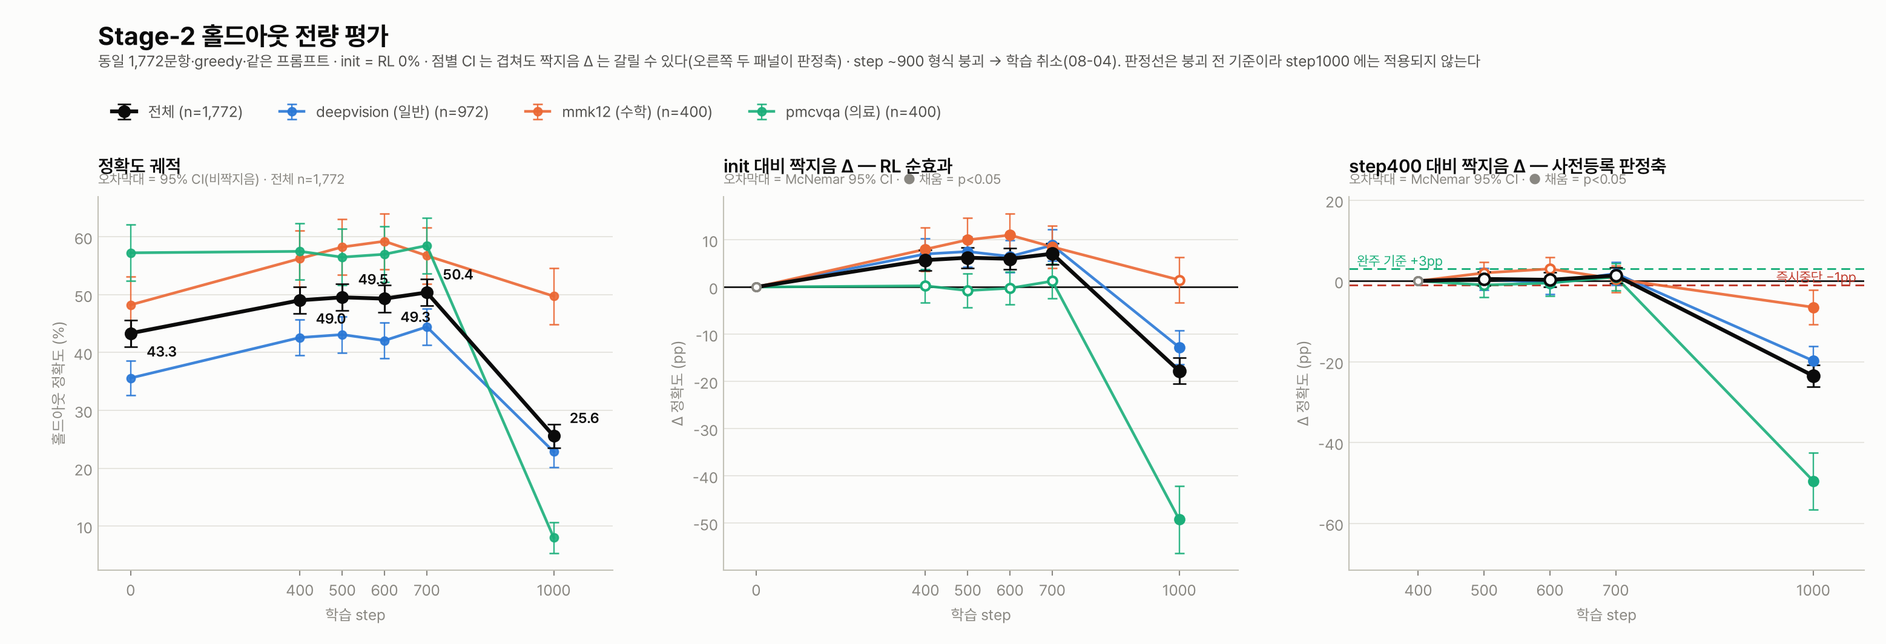
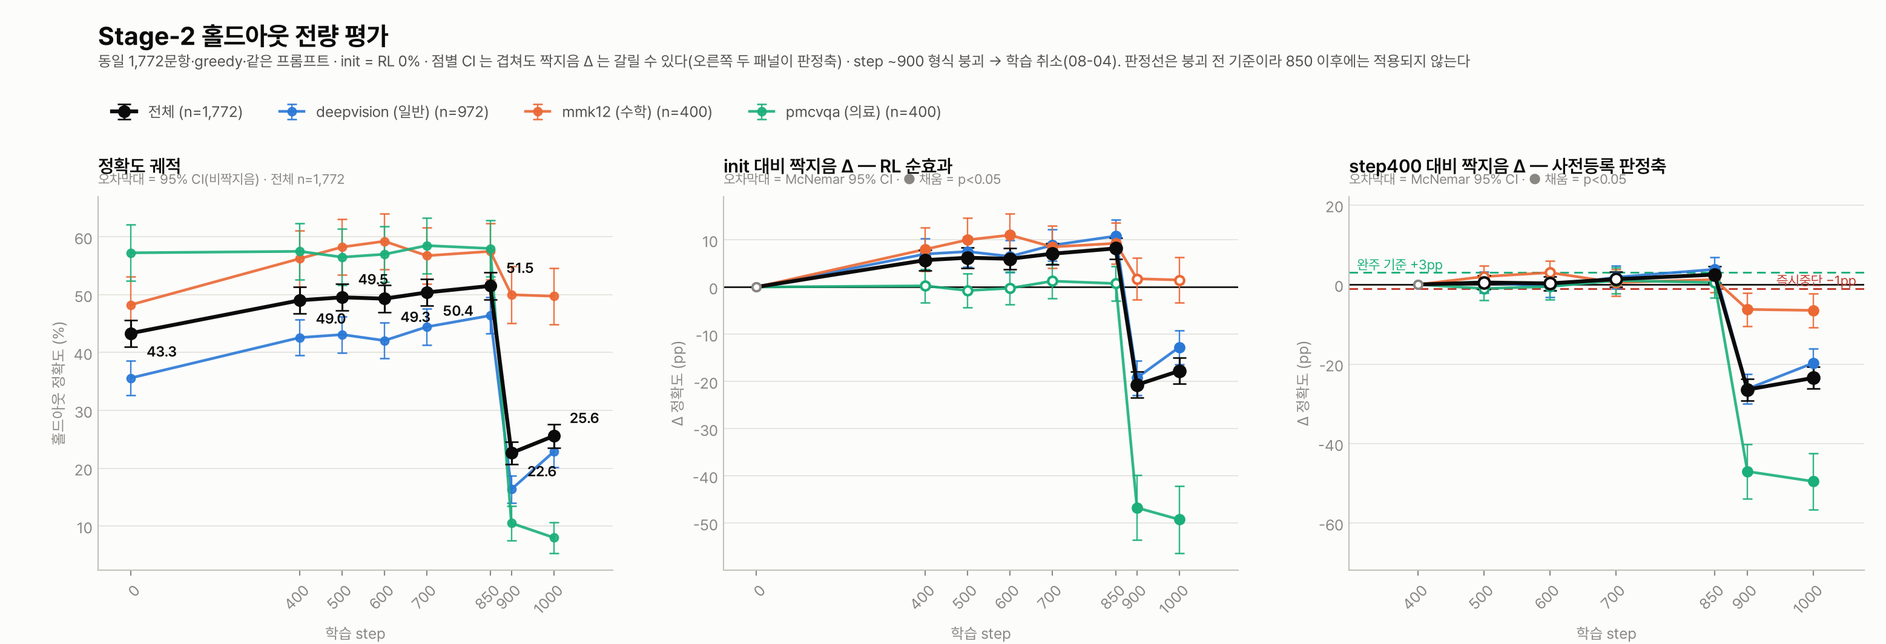
step 900 홀드아웃 추가 — 절벽은 850~900 사이 50 step (−28.89pp)
step900 = 22.63% 로 step1000(25.56%)보다도 낮다. 짝지음 850→900 −28.89pp
(정답→오답 581 / 반대 69, p<0.0001). 붕괴 지점이 홀드아웃 축에서도 특정됐다.

**학습 로그의 2단계 구조가 홀드아웃에서 독립 확인된다** — step 900 은
format 0.056 인데 mean_chars 는 2,264 로 정상이다(순수 형식 붕괴, 길이 폭발 없음).
step 1000 에 가서야 7,893 으로 뛴다(토큰 퇴화). §8-b 와 정확히 일치한다.

**수학은 step 900 에서도 init 과 구분되지 않는다**(0.500 vs 0.4825, p=0.51).
본문에서 숫자를 잡아내 형식 붕괴에 둔감하기 때문이다. 반면 의료는 −46.75pp,
vl 층은 0.0096 까지 간다 → 이 손상은 능력보다 형식 상실이다.

**재시작 지점 권고 수정**: step 850 은 최고점이지만 절벽에서 50 step 거리라
"안전한 최고점"이 아니라 벼랑 끝이다. step 700 을 절충안으로 제시한다 —
850 과 통계적으로 구분되지 않으면서(p=0.25) 여유가 4배(200 step)다.

문서 정정:
- README·슬라이드의 구간 대조표가 step 800 시절 값이라 "엔트로피 붕괴 없음"
  같은 문구가 사실과 반대였다 → 최종(step 1,047) 값으로 교체하고 "최근 100 step
  = 붕괴 구간"임을 명시
- 슬라이드 §6 의 "정책 자체는 건강하다" 문장을 철회 표시. step ≤750 에서는
  맞았으나 150 step 뒤 뒤집혔다. 안정성 지표를 "현재 정상"으로만 읽고
  추세로 읽지 않은 것이 놓친 지점이다
- 장문 정답률을 39.4%/44.6%(사과-오렌지 비교) → 15.1%/44.2% 실측값으로 교체

plot_holdout_paired.py: 눈금이 30px 미만으로 붙으면 45° 기울인다
(평가 지점 간격이 50~400 step 으로 불균등해 850·900 이 겹쳤다)

Claude-Session: https://claude.ai/code/session_01WGb91PbWg2SmApVpeZFhce

diff --git a/scripts/plot_holdout_paired.py b/scripts/plot_holdout_paired.py
@@ -167,6 +167,21 @@ def main():
         ax.set_xticks(steps)
         ax.set_xlim(min(steps) - pad * 0.55, max(steps) + pad)
         ax.tick_params(axis="y", length=0)
+        tilt_if_crowded(ax)
+
+    def tilt_if_crowded(ax, min_px=30):
+        """눈금이 붙으면 기울인다. 평가 지점 간격이 균등하지 않아(50~400 step)
+        850·900 처럼 인접한 쌍이 생기면 라벨이 겹친다."""
+        xs = sorted(ax.get_xticks())
+        if len(xs) < 2:
+            return
+        T_ = ax.transData.transform
+        gaps = [T_((xs[i + 1], 0))[0] - T_((xs[i], 0))[0] for i in range(len(xs) - 1)]
+        if min(gaps) < min_px:
+            for lab in ax.get_xticklabels():
+                lab.set_rotation(45)
+                lab.set_ha("right")
+                lab.set_rotation_mode("anchor")
 
     # ── 좌: 정확도 궤적 ───────────────────────────────────────────────────
     frame(axL, T["t1"], T["s1"], T["y1"])

diff --git a/docs/progress_log.md b/docs/progress_log.md
@@ -17,7 +17,7 @@
 |---|---|---|---|
 | **기반** | 06-15 | ✅ | NVLink 부재 발견 → **전 단계 LoRA** 강제 (full-FT 375~660s/step) |
 | **① 콜드스타트 SFT** | 06-15~16, 07-08~20 | ✅ **v3 평가완료** | 세 번 재설계(v1→v2→v3). **형식 천장 0.473 → 0.909 완파**, acc 0.348 |
-| **② 범용 RLVR** | 06-16~07-13 · 확장 07-22~24 · 본실행 07-28~ | ✅ 방법론 종결 · 🚀 **본실행 중** | dr_grpo 승자(Acc 0.526). **풀확장**(DeepVision 40K+MMK12+PMC-VQA 의료=74,787, init=v3·GDPO) → 2,337 step(=0.25 epoch) 체인 job **73924~73927** · step 630 시점 [중간점검](stage2_run73924_progress.md) |
+| **② 범용 RLVR** | 06-16~07-13 · 확장 07-22~24 · 본실행 07-28~08-04 | ✅ 방법론 종결 · 🚨 **1차 본실행 붕괴로 중단** | dr_grpo 승자(Acc 0.526). **풀확장**(DeepVision 40K+MMK12+PMC-VQA 의료=74,787, init=v3·GDPO) → 체인 job **73924~73927** 을 step 1,046 에서 취소. **최고점 step 850 = 51.52%**(init 대비 +8.18pp p<0.0001). step ~900 형식 붕괴 → [붕괴 분석 §8](stage2_run73924_progress.md) |
 | **③ 의료 RL** | 06-28~07-01 | 🟡 배선완료·본실행 대기 | RaR 루브릭·judge(27B) 검증·**e2e 스모크 PASS** |
 | **④ 평가** | 전 기간 산발 | 🔄 진행 | 누수·오염 발견마다 재측정. v3 홀드아웃 0.348 |
 
@@ -121,7 +121,7 @@
 
 - **08-04** — **홀드아웃 전량 짝지음 재측정 — 분해능 문제 해결, RL 순효과 확정**. ① **평가 검정력 보강 완료**(§7-1 조치): `EVAL_N=all` 로 확장 홀드아웃 **전량 1,772**(deepvision 972 / mmk12 400 / pmcvqa 400)에서 `init·400·500·600·700` 다섯 지점 측정(job **74187·74137·74188·74189·74190**, 합계 **5.6 노드시간** = 결정 대상 1,184 의 0.5%). 문항별 점수를 저장해 **짝지음(McNemar)** 으로 비교 → 검출 하한 **8.0pp → 실측 1.72~2.26pp**(가정치 2.3pp 보다 좋았다 — 인접 체크포인트는 불일치율이 13.6% 로 낮고, init 처럼 먼 쌍은 22.4%. **비교 쌍마다 하한이 다르다**). ② **결과가 셋으로 갈렸다** — ⓐ **RL 순효과 확정**: init 43.34% → step400 **49.04%**, 짝지음 **+5.70pp p<0.0001**. 같은 비교가 n=300 에서는 "+3.67pp p=0.428 판정불가"였다 — 효과가 없던 게 아니라 **±9.8pp 노이즈에 묻혀 있었다.** ⓑ **step 400 이후는 여전히 미검출이나 상한이 붙었다**: 400→500 +0.51(p=0.61) / 400→600 +0.28(p=0.80) / **400→700 +1.35pp(p=0.18)**, 95% 구간 **[−0.6, +3.3]pp**. "평평하다"가 아니라 "큰 상승은 없다"까지가 한계이고 **판정선 +3pp 는 배제되지 않는다.** 08-03 에 적었던 "200 step 당 1~2pp → 잔여 +8~16pp" 기대 상단은 이 구간과 **양립하지 않는다**(기대 이득이 그때보다 작다). ⓒ **의료(pmcvqa) 네 지점 전부 무변화**: init 대비 +0.25 / −0.75 / −0.25 / +1.25pp, 모두 p>0.5. n=100(±9.8pp)의 "0.57→0.53 하락"은 **재현되지 않았다** — 하락이 아니라 **무변화**이고 n=400(±3.5pp)에서도 그대로다. 반면 수학은 +8~11pp 로 뚜렷 → **RLVR 이 수학은 밀어주지만 의료 MC 는 못 밀어준다**가 확정에 가까워졌고, 이는 **Stage-3 의 우선순위를 올린다.** ③ **부수 관찰 — 형식·길이의 대가**: format **0.947 → 0.887~0.903(−6pp)**, mean_chars **1,812 → ~2,100(+16%)**. 08-03 의 길이 구성효과(장문 deepvision 15.1% vs 비장문 44.2%)와 같은 방향이고, 전체 정확도가 오르는 와중에도 누적된다. ④ **`plot_holdout_paired.py` 신설**: 기존 `plot_eval_trend.py` 는 소스별 n 을 `d["n"] // 3` 으로 잡아 전량(972/400/400)에서 deepvision 오차막대가 틀리고, 집계 jsonl 만 읽어 **비짝지음 CI 밖에** 못 그린다. 문항별 파일에서 직접 3패널(궤적 / init 대비 Δ / step400 대비 Δ+판정선)을 그리고 `eval_paired.py` 와 교차검증해 수치 일치 확인. **점별 오차막대가 겹치는 것을 "차이 없음"으로 읽는 오독을 막으려고 Δ 패널을 분리**했다. ⑤ **`eval_midtrain.slurm` 버그 수정**: `EVAL_STAGES=init` 인데도 스냅샷+병합이 **무조건** 실행돼, `MID_CKPT` 미지정 시 **학습 중인 디렉터리에서 최신 checkpoint 를 자동 선택**해 복사·병합했다. 쓰이지도 않는 5분 낭비인 데다 기록 중인 체크포인트를 집을 위험. `if has_stage trained` 로 감싸고 중복 `has_stage` 정의 제거(job 74187 제출 전 발견). ⑥ **`watch_and_eval.sh` 신설 — step 1200 감시 자동화**: `save_total_limit=5` 라 체크포인트는 저장 후 ~20h 뒤 롤링 삭제되는데 step 1200 도달이 **밤 22:30 경**이라 사람이 그 창에 붙어야 했다. 로그인 노드에서 5분 간격 폴링 → 30초 크기 안정성 확인(쓰는 중인 것 회피) → **전체 `cp -a`** → `sbatch` 제출. 재개로 v1→v2 가 돼도 글롭이 잡는다. **스냅샷이 제출보다 먼저**라 sbatch 가 실패해도 체크포인트는 안전하다. checkpoint-1000 으로 감지·복사·무결성(`diff -rq`) 시험 완료, `sbatch --test-only` 통과. ⑦ 덤으로 **step 1000 평가 제출**(job 74300) — `debug-1gpu` 유휴 + 시험용 스냅샷 재활용. 700~1200 의 500 step 공백이 절반으로 줄어든다. ⑧ 학습은 **step 1,038/2,337 (44.4%)**, 73925 가 25h 경과(한도 70h), 벽시계 ~296 s/it.
 
-- **08-04 (2)** — 🚨 **학습 붕괴 발견 → 체인 취소. step 850 이 최고점.** ① **발견 경위**: 재시작 파라미터를 정하려고 `frac_reward_zero_std` 를 확인하다가 인접 지표에서 드러났다. **홀드아웃 추세만 보고 있었으면 못 봤다** — 마지막 홀드아웃 측정점이 700 이었고 붕괴는 900 에서 일어났다. ② **붕괴 경과**: step ~900 에서 `FormatThink` 가 0.90 → **0.057** 로 급락(25 step 구간 평균), 길이 1,970 → 3,032 → 6,704, 절단률 5.9% → 20.5% → **38.1%**, KL 0.036 → 0.107 → 최종 **0.541**, 엔트로피 0.55 → 0.10. 최근 스텝은 `reward` 가 **음수**(−0.045)였다. ③ **두 단계 붕괴**: **1단계(~900) 형식만 무너진다** — 이 시점 롤아웃은 정상 추론을 하고 `</think><answer>14</answer>` 대신 `Answer: 14` 로 끝낼 뿐이다(퇴화율 0.1%). **2단계(~1000+) 토큰 퇴화** — `AAAA…` 4만 자, `<think>` 태그 1,497회 같은 출력(퇴화율 16.8%, 길이 p90 **41,341자**). **"추론이 길어서 잘렸다"도 "같은 말을 반복했다"도 아니다**: 추론이 없고 반복 단위가 토큰 한 개다 → 토큰 상한을 늘려도 소용없다. ④ **방아쇠 = 정방향 되먹임**: 정확도 보상이 형식과 **결합**돼 있다(`AccuracyMix` 가 `<answer>(.*?)</answer>` 로 답을 뽑음 → 실측 Acc(F=0) 0.02~0.26 vs Acc(F=1) 0.46~0.50). 형식 이탈 → 정확도까지 0 → 그룹 advantage 가 "정답이냐"가 아니라 "형식을 지켰냐"로 지배 → 업데이트 확대(grad_norm 0.023→0.117, clip_hi 4배, KL 3배) → 더 이탈 → **절벽(step 899→903)**. 넘어간 뒤 90%가 0점이라 `reward_std` 가 **0.074** 로 주저앉아 복원력이 사라진다. lr 은 cosine 으로 매끄럽게 감쇠(7.03e-06→6.74e-06) — 방아쇠 아님. ⑤ **유력한 근인 — `overlong_filter=True`**: ms-swift 4.1.3 이 잘린 completion 을 `completion_mask` 에서 제외하는데 **그 마스크가 KL 계산에도 그대로 쓰인다**(`grpo_trainer.py` L1132). 즉 길이 폭주로 잘리기 시작하면 그 샘플은 **손실 그래디언트도 KL 앵커도 안 받는다** — 절단률 38% 구간에서 배치의 1/3 이 면제된 셈. 보상(SoftOverlong −1)은 형제를 밀어**올릴** 뿐 퇴화를 밀어**내리지** 않는다. (코드 판독 추론, ablation 미실시) ⑥ **기각된 가설 4종**(기록해 재탐색 비용을 아낀다): `num_generations=4` 부족 → `frac_reward_zero_std` **평균 0.0106**·97% 스텝에서 0, 그룹은 건강했다 / 형식 보상 가중치(0.2)가 약해서 → 반대로 정확도가 형식에 결합돼 있었다 / lr 급변 → 없음 / `max_grad_norm` 미설정 → 1.0 이나 실제 grad_norm 최대 0.17 로 **한 번도 작동 안 함**. ⑦ **체인 취소**(08-04 10:14): 의존성이 `afterany:73925` 라 **73925 를 먼저 죽이면 73926 이 즉시 시작**한다 → 73927·73926 을 먼저 취소하고 확인한 뒤 73925 를 껐다. step 1,046 정지, 총 1일 2시간 32분. ⑧ **체크포인트 확보**: checkpoint-800 이 step 1050 저장 시 롤오프될 참(당시 1046)이라 긴급히 800·850·900·950 스냅샷(각 ~480MB, `diff -rq` 원본 동일 확인). 이제 `_mideval_snap_step{400,500,600,800,850,900,950,1000}` + v0 의 checkpoint-700 이 있다. ⑨ **홀드아웃 재측정**(job 74300·74302·74303): step **850 = 51.52%** 로 **전 구간 최고**, step **1000 = 25.56%** 로 init(43.34%)보다 낮다. 짝지음 **init→850 +8.18pp(p<0.0001)**, **400→850 +2.48pp(p=0.020)**, 400→1000 **−23.48pp**. ⑩ **§6-d 의 "400 이후 미검출"이 뒤집혔다** — 300 step 간격(400→700 +1.35pp p=0.18)에서는 못 봤지만 **450 step 간격에서는 검출된다**. 정체가 아니라 분해능 부족이었고 §6-d 가 제시한 CI [−0.6,+3.3]pp 안에 들어온다. **즉 이 런은 붕괴 직전까지 정상 개선 중이었고 사전등록 게이트를 넘길 속도였다 — 실패한 건 학습이 아니라 안정성이다.** ⑪ **의료는 여섯 지점 전부 무변화**(init 대비 +0.25/−0.75/−0.25/+1.25/+0.75pp, 전부 p>0.5) — 붕괴와 무관하게 성립. ⑫ step 1000 손상이 소스별로 극단적: 의료 −49.5pp / deepvision −19.8pp / 수학 −6.5pp. 의료는 `<answer>A</answer>` 형식이 있어야 letter 를 뽑으므로 **letter 층 0.5835 → 0.0798**. 수학은 본문에서 숫자를 잡아 덜 민감 → **−23pp 는 능력 상실보다 형식 상실**. ⑬ 반복률 지표 버그 정정: 단어 `split()` 기반 n-gram 은 **공백 없는 태그 난사를 못 잡아** 항상 0 을 반환했다 → 문자 단위로 교체. ⑭ 플롯 2종 갱신(`plot_train_curves.py` 에 라벨 충돌 회피 + `--status`, `plot_holdout_paired.py` 에 `--note` + 판정선 라벨 좌우 분리).
+- **08-04 (2)** — 🚨 **학습 붕괴 발견 → 체인 취소. step 850 이 최고점.** ① **발견 경위**: 재시작 파라미터를 정하려고 `frac_reward_zero_std` 를 확인하다가 인접 지표에서 드러났다. **홀드아웃 추세만 보고 있었으면 못 봤다** — 마지막 홀드아웃 측정점이 700 이었고 붕괴는 900 에서 일어났다. ② **붕괴 경과**: step ~900 에서 `FormatThink` 가 0.90 → **0.057** 로 급락(25 step 구간 평균), 길이 1,970 → 3,032 → 6,704, 절단률 5.9% → 20.5% → **38.1%**, KL 0.036 → 0.107 → 최종 **0.541**, 엔트로피 0.55 → 0.10. 최근 스텝은 `reward` 가 **음수**(−0.045)였다. ③ **두 단계 붕괴**: **1단계(~900) 형식만 무너진다** — 이 시점 롤아웃은 정상 추론을 하고 `</think><answer>14</answer>` 대신 `Answer: 14` 로 끝낼 뿐이다(퇴화율 0.1%). **2단계(~1000+) 토큰 퇴화** — `AAAA…` 4만 자, `<think>` 태그 1,497회 같은 출력(퇴화율 16.8%, 길이 p90 **41,341자**). **"추론이 길어서 잘렸다"도 "같은 말을 반복했다"도 아니다**: 추론이 없고 반복 단위가 토큰 한 개다 → 토큰 상한을 늘려도 소용없다. ④ **방아쇠 = 정방향 되먹임**: 정확도 보상이 형식과 **결합**돼 있다(`AccuracyMix` 가 `<answer>(.*?)</answer>` 로 답을 뽑음 → 실측 Acc(F=0) 0.02~0.26 vs Acc(F=1) 0.46~0.50). 형식 이탈 → 정확도까지 0 → 그룹 advantage 가 "정답이냐"가 아니라 "형식을 지켰냐"로 지배 → 업데이트 확대(grad_norm 0.023→0.117, clip_hi 4배, KL 3배) → 더 이탈 → **절벽(step 899→903)**. 넘어간 뒤 90%가 0점이라 `reward_std` 가 **0.074** 로 주저앉아 복원력이 사라진다. lr 은 cosine 으로 매끄럽게 감쇠(7.03e-06→6.74e-06) — 방아쇠 아님. ⑤ **유력한 근인 — `overlong_filter=True`**: ms-swift 4.1.3 이 잘린 completion 을 `completion_mask` 에서 제외하는데 **그 마스크가 KL 계산에도 그대로 쓰인다**(`grpo_trainer.py` L1132). 즉 길이 폭주로 잘리기 시작하면 그 샘플은 **손실 그래디언트도 KL 앵커도 안 받는다** — 절단률 38% 구간에서 배치의 1/3 이 면제된 셈. 보상(SoftOverlong −1)은 형제를 밀어**올릴** 뿐 퇴화를 밀어**내리지** 않는다. (코드 판독 추론, ablation 미실시) ⑥ **기각된 가설 4종**(기록해 재탐색 비용을 아낀다): `num_generations=4` 부족 → `frac_reward_zero_std` **평균 0.0106**·97% 스텝에서 0, 그룹은 건강했다 / 형식 보상 가중치(0.2)가 약해서 → 반대로 정확도가 형식에 결합돼 있었다 / lr 급변 → 없음 / `max_grad_norm` 미설정 → 1.0 이나 실제 grad_norm 최대 0.17 로 **한 번도 작동 안 함**. ⑦ **체인 취소**(08-04 10:14): 의존성이 `afterany:73925` 라 **73925 를 먼저 죽이면 73926 이 즉시 시작**한다 → 73927·73926 을 먼저 취소하고 확인한 뒤 73925 를 껐다. step 1,046 정지, 총 1일 2시간 32분. ⑧ **체크포인트 확보**: checkpoint-800 이 step 1050 저장 시 롤오프될 참(당시 1046)이라 긴급히 800·850·900·950 스냅샷(각 ~480MB, `diff -rq` 원본 동일 확인). 이제 `_mideval_snap_step{400,500,600,800,850,900,950,1000}` + v0 의 checkpoint-700 이 있다. ⑨ **홀드아웃 재측정**(job 74300·74302·74303): step **850 = 51.52%** 로 **전 구간 최고**, step **900 = 22.63%**, step **1000 = 25.56%** — 둘 다 init(43.34%)보다 낮다. 짝지음 **init→850 +8.18pp(p<0.0001)**, **400→850 +2.48pp(p=0.020)**, **850→900 −28.89pp**(정답→오답 581 / 반대 69). **절벽은 850~900 사이 50 step 이다.** 학습 로그의 2단계 구조가 홀드아웃에서도 독립 확인된다 — step 900 은 format 0.056 인데 mean_chars 는 **2,264 로 정상**(순수 형식 붕괴), step 1000 에 가서야 7,893 으로 뛴다(토큰 퇴화). **수학은 step 900 에서도 init 과 구분되지 않는다**(0.500 vs 0.4825, p=0.51) — 본문에서 숫자를 잡아내 형식 붕괴에 둔감하기 때문. 반면 의료는 −46.75pp, vl 층은 0.0096 까지 간다. ⑩ **§6-d 의 "400 이후 미검출"이 뒤집혔다** — 300 step 간격(400→700 +1.35pp p=0.18)에서는 못 봤지만 **450 step 간격에서는 검출된다**. 정체가 아니라 분해능 부족이었고 §6-d 가 제시한 CI [−0.6,+3.3]pp 안에 들어온다. **즉 이 런은 붕괴 직전까지 정상 개선 중이었고 사전등록 게이트를 넘길 속도였다 — 실패한 건 학습이 아니라 안정성이다.** ⑪ **의료는 여섯 지점 전부 무변화**(init 대비 +0.25/−0.75/−0.25/+1.25/+0.75pp, 전부 p>0.5) — 붕괴와 무관하게 성립. ⑫ step 1000 손상이 소스별로 극단적: 의료 −49.5pp / deepvision −19.8pp / 수학 −6.5pp. 의료는 `<answer>A</answer>` 형식이 있어야 letter 를 뽑으므로 **letter 층 0.5835 → 0.0798**. 수학은 본문에서 숫자를 잡아 덜 민감 → **−23pp 는 능력 상실보다 형식 상실**. ⑬ 반복률 지표 버그 정정: 단어 `split()` 기반 n-gram 은 **공백 없는 태그 난사를 못 잡아** 항상 0 을 반환했다 → 문자 단위로 교체. ⑭ 플롯 2종 갱신(`plot_train_curves.py` 에 라벨 충돌 회피 + `--status`, `plot_holdout_paired.py` 에 `--note` + 판정선 라벨 좌우 분리).
 
 ### TODO
 - [x] 환경·모델·데이터 확정 + 전체 변환 (DeepVision 103K / medix 51K)
@@ -146,7 +146,7 @@
 - [x] **Stage-2 풀확장 데이터·검증** → MMK12·**PMC-VQA(의료)** 수급·변환·조립(train **74,787** 일반53/math20/의료26, holdout 1,772 dedup 누수0), GDPO 배선·런북·HANDOFF·`docs/stage2_data.md` 커밋
 - [x] **k252a02 이관 + 환경 복구**(07-27~28) → work/ 293G 직접전송·경로 일괄치환, **apptainer 파손 우회(`ENV_MODE=loader`)**, 배선 스모크 완주(1GPU·8GPU)
 - [x] **Stage-2 풀확장 본실행 1차**(73924~73927) → 🚨 **step ~900 붕괴로 08-04 취소**(step 1,046 정지). 최고점 **step 850 = 51.52%**(init 대비 +8.18pp p<0.0001). 근인 후보 `overlong_filter=True` 가 잘린 completion 을 손실·KL 양쪽에서 제외 → [붕괴 분석 §8](stage2_run73924_progress.md)
-- [ ] **Stage-2 재시작 설계** ← **다음 임계경로**. ① `overlong_filter` 검증·해제 ② KL `beta` 0.04 → 상향 ③ 형식 감시 조기중단(`FormatThink < 0.85` 지속 시) ④ 재시작 지점 선택(init / ~400 / 850). ⑤ `max_grad_norm` 은 1.0 이면 무의미(실측 최대 0.17) → 하향 검토
+- [ ] **Stage-2 재시작 설계** ← **다음 임계경로**. ① `overlong_filter` 검증·해제 ② KL `beta` 0.04 → 상향 ③ 형식 감시 조기중단(`FormatThink < 0.85` 지속 시 — **절벽 25 step 전부터 경고가 있었다**) ④ `max_grad_norm` 1.0 은 무의미(실측 최대 0.17) → 하향 ⑤ **재시작 지점**: 850 은 최고점이나 **절벽에서 50 step** 거리라 벼랑 끝이다. **step 700 이 절충안** — 850 과 통계적으로 구분되지 않으면서(p=0.25) 여유가 4배(200 step)
 - [ ] ~~**step 1200 판정**~~ — **실행되지 않았다**. step 1200 도달 전 붕괴. 사전기준은 재시작 런에 그대로 재사용 가능
 - [x] **중간 체크포인트 홀드아웃 평가**(job 74060·74062·74063) → init 0.4533 / 400 0.4900 / 500 0.4800 / 600 0.4867 — **n=300 으론 판별 불가**(하한 8.0pp)
 - [x] **학습 로그 소스별 추세 측정**(`scripts/train_source_trend.py`, 완성문 24,000) → **판별 실패**. step 301~750 기울기 CI 가 세 소스 모두 0 을 크게 포함(deepvision −14.4~+12.9pp). 최근 상승은 대부분 길이 구성효과. **판정은 step 1200 홀드아웃이 유일 근거**

diff --git a/docs/stage2_overview_for_slides.md b/docs/stage2_overview_for_slides.md
@@ -18,7 +18,7 @@
 | 하는 일 | 검증가능 정답으로 GRPO 강화학습 — 일반 시각추론 + math + 의료를 균형 강화 |
 | 데이터 | 3개 소스 실측 선별 → **74,787건**(일반 53 / math 20 / 의료 26), 클린 홀드아웃 1,772 |
 | 방법 | **dr_grpo + GDPO** (GRPO 계열 5종 clean A/B 승자) · LoRA r16 · 8×A100 |
-| 진행 | **800 / 2,337 step (34%)** · 오류 0건 · 73924 → 73925 체인 인계 정상 |
+| 진행 | **1,046 / 2,337 step 에서 취소** · 인프라 오류 0건(끝까지 무결) |
 | **성과** | 전량 1,772 짝지음: init **43.34% → step850 51.52%** = **+8.18pp, p<0.0001**. step400 대비도 **+2.48pp, p=0.020** |
 | **사고** | 🚨 **step ~900 형식 붕괴 → 정책 자유낙하.** step1000 은 25.56% 로 init 보다 낮다. 08-04 체인 취소(step 1,046) |
 | **판단** | **학습이 아니라 안정성의 실패다.** 붕괴 직전까지 개선 중이었고 게이트를 넘길 속도였다. 최고 체크포인트 확보 |
@@ -155,23 +155,34 @@ ms-swift 가 노출하는 **직교 3-knob** 조합으로 정리하면 외울 것
 
 ![Stage-2 확장셋 GDPO 학습 곡선](assets/stage2_expanded_73924_curves.png)
 
-**step 800 / 2,337 (34%) · 294 s/it(벽시계) · 73924 → 73925 체인 인계 정상 · OOM·CUDA error·Traceback 0건**
-*(2026-08-03 11:00 KST. 73924 는 TimeLimit 로 step 787 에서 종료, 73925 가 checkpoint-750 에서 재개)*
-*`step_time` 은 147 s/it 이지만 롤아웃 생성·체크포인트가 그 밖에 있어 벽시계는 그 2배다 — 일정 계산엔 294 를 쓴다.*
+**step 1,046 / 2,337 에서 취소 · ~296 s/it(벽시계) · OOM·CUDA error·Traceback 0건 — 인프라는 끝까지 무결했다**
+*(2026-08-04 10:14 KST 취소. 73924 는 TimeLimit 로 step 787 종료, 73925 가 checkpoint-750 에서 재개)*
+*`step_time` 은 147 s/it 이지만 롤아웃 생성·체크포인트가 그 밖에 있어 벽시계는 그 2배다 — 일정 계산엔 296 을 쓴다.*
+
+🚨 **곡선 여섯 패널 전부에 붕괴가 찍혀 있다** — FormatThink 0.97 → 0.06(step ~900) · KL 0.03 → 0.53 ·
+엔트로피 0.55 → 0.37(최저 0.09) · 길이 1,150 → 3,100 · 절단률 4% → 38%.
 
 ### 구간 대조 (1~100 step 평균 → 최근 100 step 평균)
 
-| 지표 | 초반 | 최근 | 변화 | 읽기 |
-|---|---:|---:|---:|---|
-| rewards/AccuracyMix | 0.4248 | 0.4495 | **+5.8%** | 대부분 길이 구성효과 (아래 참조) |
-| rewards/FormatThink | 0.9461 | 0.9583 | +1.3% | 천장 부근 회복 |
-| completions/mean_length | 1,127 | 1,176 | +4.3% | ✅ 401~500 정점 1,660 에서 되돌아옴 |
-| completions/clipped_ratio | 4.9% | 3.9% | **−21.8%** | ✅ 401~500 정점 9.8% 에서 회복 |
-| kl | 0.0036 | 0.0313 | +765% | 절대값 0.031 로 작음 — 정책이 꾸준히 이동 중 |
-| entropy/mean | 0.5377 | 0.5227 | −2.8% | 다양성 붕괴 없음 |
+⚠ **"최근 100 step"은 붕괴 구간(947~1,046)이다.** 정상 구간 대조가 아니라 **붕괴의 크기**를 보는 표다.
 
-> ⚠ **이 표는 2026-08-02 판(step 551~650)에서 뒤집혔다.** 당시 "정확도 정지(+1.3%)·길이 팽창(+28.1%)·클리핑 증가(+41.4%)"로
-> 읽었으나, 그것은 **200~500 구간의 일시적 길이 인플레이션**을 정상 상태로 오인한 것이다. 700 step 대에 세 지표 모두 되돌아왔다.
+| 지표 | 초반 | 최근(붕괴 후) | 변화 | 읽기 |
+|---|---:|---:|---:|---|
+| reward | 0.6019 | 0.3924 | **−34.8%** | 최근 스텝은 **음수**(−0.045)까지 갔다 |
+| rewards/AccuracyMix | 0.4248 | 0.3370 | **−20.7%** | 형식을 잃으면 정확도도 잃는다(결합) |
+| **rewards/FormatThink** | 0.9461 | **0.4562** | 🚨 **−51.8%** | 붕괴의 진앙 |
+| rewards/SoftOverlong | −0.0606 | −0.1794 | −196% | 절단이 상시화 |
+| **kl** | 0.0036 | **0.2392** | 🚨 **+6,512%** | 참조 정책에서 이탈. 최종 0.53 |
+| entropy/mean | 0.5377 | 0.4425 | −17.7% | 최저 **0.09** — diversity collapse |
+| completions/mean_length | 1,127 | 1,936 | **+71.8%** | p90 은 41,341자까지 |
+| completions/clipped_ratio | 4.9% | 16.3% | **+230%** | 정점 38% |
+| reward_std | 0.4951 | 0.3791 | −23.4% | 최저 **0.074** — 신호 소실 |
+| frac_reward_zero_std | 0.0044 | 0.0000 | — | **그룹은 끝까지 건강했다** |
+
+> ⚠ **이 표는 두 번 뒤집혔다.** ① 08-02 판(step 551~650)은 "정확도 정지·길이 팽창"으로 읽었으나
+> 그것은 200~500 구간의 **일시적** 길이 인플레이션이었고 700 step 대에 되돌아왔다. ② 08-03 판은
+> "길이 인플레이션은 지나갔다"로 읽었으나, **그 길이 문제가 결국 붕괴의 통로가 됐다** —
+> 절단률이 오르자 `overlong_filter` 가 그 샘플을 손실·KL 에서 빼버렸고 앵커가 사라졌다.
 
 ### 학습 로그로 답하려 했으나, 거기서도 답이 안 나온다
 
@@ -180,13 +191,14 @@ ms-swift 가 노출하는 **직교 3-knob** 조합으로 정리하면 외울 것
 
 ![소스별 학습 정확도 추세](assets/stage2_source_trend.png)
 
-**① 최근 상승은 대부분 길이 구성이다.** 장문 completion 은 정답률이 훨씬 낮다(39.4% vs 44.6%).
+**① 최근 상승은 대부분 길이 구성이다.** 장문 completion 은 정답률이 훨씬 낮다 —
+deepvision 기준 **장문 15.1% vs 비장문 44.2%(−29.1pp)**, mmk12 12.9% vs 50.8%.
 그 비중이 11.0% → 16.8% → **11.9%** 로 갔다 오면서 평균이 저절로 오르내렸다.
 원 계열의 최근 점프 +2.4pp 중 장문 제외 후 남는 것은 **+0.8pp**(t=0.64, 미검출).
 
 **② 결정에 필요한 "지금부터의 기울기"는 판별되지 않는다.**
 
-| 소스 | step 301~750 기울기 (장문 제외) | 잔여 1,587 step 외삽 |
+| 소스 | step 301~750 기울기 (장문 제외) | 잔여 구간 외삽(※ 아래 경고) |
 |---|---|---|
 | deepvision | −0.047 pp/100step (t=−0.11) | **−0.7pp** [95% **−14.4 ~ +12.9**] |
 | mmk12 수학 | +0.195 (t=+0.17) | +3.1pp [−31.7 ~ +37.9] |
@@ -196,7 +208,10 @@ ms-swift 가 노출하는 **직교 3-knob** 조합으로 정리하면 외울 것
 스텝 간 분산이 커서 기울기의 유효 표본은 "완성문 24,000" 이 아니라 "스텝 450 개"에 가깝기 때문이다.
 정확도의 **수준**을 재는 것과 **기울기**를 재는 것은 다른 문제이고, 결정에 필요한 것은 후자다.
 
-> 엔트로피는 안 꺾였고 KL 도 작아 정책 자체는 건강하다. 문제는 모델이 아니라 **측정**이다.
+> 🚨 **"엔트로피는 안 꺾였고 KL 도 작아 정책 자체는 건강하다"** — 08-03 판의 이 문장은
+> **step ≤750 시점에서는 맞았으나 150 step 뒤 뒤집혔다**(엔트로피 0.55→0.09, KL 0.03→0.53).
+> 이 절의 "문제는 모델이 아니라 측정이다"라는 결론도 절반만 맞았다 — 측정도 문제였지만(§6-d 에서 해결)
+> **정책도 곧 무너질 참이었다.** 학습 안정성 지표를 "현재 정상"으로만 읽고 **추세로 읽지 않은 것**이 놓친 지점이다.
 > *(교란요인 확인: `dataset_shuffle=True` — 학습셋이 소스순 정렬이라 필수 / 최종 epoch 0.25 라 문항 재등장 없음 = fresh-sample / 재개 구간 751~787 중복 제거)*
 
 **자원**: `step_time` 합계 29.0h 대 실제 경과 58.2h → **절반이 학습 밖**(vLLM 롤아웃 생성·재샘플링·체크포인트). GRPO colocate 의 구조적 비용.
@@ -211,14 +226,14 @@ ms-swift 가 노출하는 **직교 3-knob** 조합으로 정리하면 외울 것
 `init·400·500·600·700` 다섯 지점을 **동일 문항·greedy(temperature 0)** 로 채점하고,
 문항별 점수를 저장해 **짝지음(McNemar)** 으로 비교했다. 검출 하한이 **8.0pp → 1.7~2.3pp**.
 
-| (%) | **init** | 400 | 500 | 600 | 700 | **850** | 1000 |
-|---|---:|---:|---:|---:|---:|---:|---:|
-| **전체** (n=1,772) | **43.34** | 49.04 | 49.55 | 49.32 | 50.40 | **51.52** | **25.56** |
-| deepvision 일반 (n=972) | 35.60 | 42.59 | 43.11 | 42.08 | 44.44 | **46.40** | 22.84 |
-| mmk12 수학 (n=400) | 48.25 | 56.25 | 58.25 | 59.25 | 56.75 | 57.50 | **49.75** |
-| **pmcvqa 의료** (n=400) | 57.25 | 57.50 | 56.50 | 57.00 | 58.50 | 58.00 | **8.00** |
-| format(`<answer>`) | 0.947 | 0.892 | 0.887 | 0.887 | 0.903 | 0.895 | **0.180** |
-| mean_chars | 1,812 | 2,124 | 2,103 | 2,126 | 2,031 | 2,107 | **7,893** |
+| (%) | **init** | 400 | 500 | 600 | 700 | **850** | **900** | 1000 |
+|---|---:|---:|---:|---:|---:|---:|---:|---:|
+| **전체** (n=1,772) | **43.34** | 49.04 | 49.55 | 49.32 | 50.40 | **51.52** | **22.63** | 25.56 |
+| deepvision 일반 (n=972) | 35.60 | 42.59 | 43.11 | 42.08 | 44.44 | **46.40** | 16.36 | 22.84 |
+| mmk12 수학 (n=400) | 48.25 | 56.25 | 58.25 | 59.25 | 56.75 | 57.50 | **50.00** | 49.75 |
+| **pmcvqa 의료** (n=400) | 57.25 | 57.50 | 56.50 | 57.00 | 58.50 | 58.00 | **10.50** | 8.00 |
+| format(`<answer>`) | 0.947 | 0.892 | 0.887 | 0.887 | 0.903 | 0.895 | **0.056** | 0.180 |
+| mean_chars | 1,812 | 2,124 | 2,103 | 2,126 | 2,031 | 2,107 | **2,264** | **7,893** |
 
 | 짝지음 Δ | 전체 | deepvision | 수학 | 의료 |
 |---|---|---|---|---|
@@ -226,6 +241,7 @@ ms-swift 가 노출하는 **직교 3-knob** 조합으로 정리하면 외울 것
 | **init → 850** | **+8.18pp** p<0.0001 ✅ | +10.80 ✅ | +9.25 ✅ | +0.75 ✗ |
 | 400 → 700 (300 step) | +1.35pp p=0.18 ✗ | +1.85 ✗ | +0.50 ✗ | +1.00 ✗ |
 | **400 → 850 (450 step)** | **+2.48pp p=0.020 ✅** | +3.81 ✅ | +1.25 ✗ | +0.50 ✗ |
+| **850 → 900 (50 step)** | **−28.89pp** p<0.0001 🚨 | −30.04 | −7.50 | **−47.50** |
 | 400 → 1000 (붕괴 후) | **−23.48pp** p<0.0001 🚨 | −19.75 | −6.50 | **−49.50** |
 
 ### 읽기

diff --git a/README.md b/README.md
@@ -88,43 +88,43 @@
 
 **구간 대조 (1~100 step 평균 → 최근 100 step 평균)** — `scripts/plot_train_curves.py` 출력 그대로
 
-| 지표 | 초반 | 최근 | 변화 |
-|---|---:|---:|---:|
-| rewards/AccuracyMix | 0.4248 | 0.4495 | **+5.8%** |
-| rewards/FormatThink | 0.9461 | 0.9583 | +1.3% |
-| completions/mean_length | 1,127 | 1,176 | +4.3% (401~500 정점 1,660 에서 되돌아옴) |
-| completions/clipped_ratio | 4.9% | 3.9% | **−21.8%** |
-| kl | 0.0036 | 0.0313 | +765% (절대값은 작음) |
-| entropy/mean | 0.5377 | 0.5227 | −2.8% (붕괴 없음) |
-| frac_reward_zero_std | 0.0044 | 0.0156 | +257% (절대값은 작음) |
+⚠ **"최근 100 step"은 붕괴 구간(947~1,046)이다.** 정상 구간과의 대조가 아니라 **붕괴의 크기**를 보는 표다.
 
-> ✅ **길이 인플레이션은 지나갔다.** 200~500 구간에서 길이 1,127→1,660자·클리핑 4.9→9.8%·형식준수 0.947→0.899 로 악화됐다가
-> 700 step 대에 전부 되돌아왔다. **step 400/500/600 홀드아웃 평가는 하필 이 저점에서 찍힌 것**이다.
+| 지표 | 초반 | 최근(붕괴 후) | 변화 |
+|---|---:|---:|---:|
+| reward | 0.6019 | 0.3924 | **−34.8%** |
+| rewards/AccuracyMix | 0.4248 | 0.3370 | **−20.7%** |
+| **rewards/FormatThink** | 0.9461 | **0.4562** | 🚨 **−51.8%** |
+| rewards/SoftOverlong | −0.0606 | −0.1794 | −196% |
+| **kl** | 0.0036 | **0.2392** | 🚨 **+6,512%** |
+| entropy/mean | 0.5377 | 0.4425 | −17.7% (최저 0.09) |
+| completions/mean_length | 1,127 | 1,936 | **+71.8%** |
+| completions/clipped_ratio | 4.9% | 16.3% | **+230%** |
+| reward_std | 0.4951 | 0.3791 | −23.4% (최저 0.074) |
+| frac_reward_zero_std | 0.0044 | 0.0000 | 그룹은 끝까지 건강했다 |
+
+> ✅ **step 850 까지는 정상이었다.** 200~500 구간의 길이 인플레이션(길이 1,127→1,660·클리핑 4.9→9.8%)은
+> 700 step 대에 되돌아왔고, 850~874 구간의 퇴화율은 **0.0%** 였다.
 >
-> 🔍 **최근 AccuracyMix 상승(+5.8%)의 대부분은 실력이 아니라 길이 구성이다.** 장문(SoftOverlong≠0) completion 은
-> 정답률이 **15.1%** 로 비장문 **44.2%** 의 3분의 1이다(deepvision, −29.1pp). 그 비중이 16.8% → 11.9% 로 줄면
-> 실력이 그대로여도 평균은 오른다. 장문 제외 기준으로 남는 상승은 **+0.8pp**(t=0.64, 미검출).
->
-> ❌ **학습 로그로 "앞으로 오를까"를 답하려 했으나 실패했다.** `completions.jsonl` 24,000 문항(홀드아웃의 80배)으로도
-> step 301~750 기울기는 deepvision **−0.05pp/100step, 95% 구간 −14.4 ~ +12.9pp** — 세 소스 모두 0 을 크게 포함한다.
-> 수준을 재는 것과 기울기를 재는 것은 다른 문제다. **판정은 step 1200 홀드아웃(전량 1,772 + 짝지음)이 유일한 근거다.**
+> 🔍 **중간 AccuracyMix 상승의 상당 부분은 실력이 아니라 길이 구성이었다.** 장문(SoftOverlong≠0) completion 은
+> 정답률이 **15.1%** 로 비장문 **44.2%** 의 3분의 1이다(deepvision, −29.1pp). 그 비중이 줄면 실력이 그대로여도 평균은 오른다.
 > → [보고서 §6-c](docs/stage2_run73924_progress.md) · 재현 `python3 scripts/train_source_trend.py --until 750`
+>
+> 🚨 **그리고 이 길이 문제가 결국 붕괴의 통로가 됐다.** 절단률이 오르자 `overlong_filter` 가
+> 그 샘플들을 손실·KL 에서 빼버렸고, 앵커가 빠진 자리에서 정책이 무너졌다.
 
 ![소스별 학습 정확도 추세](docs/assets/stage2_source_trend.png)
 
-**체인 소진 예측**: 73924 는 벽시계 한계(TimeLimit 2-22:00:00, 08-03 07:40 종료)에서 **787 step** 도달 후 resume 인계(실측).
-잡당 70h ÷ 294 s/it ≈ **857 step** 이므로 73925 가 ~1,607, **73926 중 2,337 step 도달** 예상 → **완주 ≈ 08-08~09**, 73927 은 여유분.
-
 **홀드아웃 전량 추세 (n=1,772)** — 확장 홀드아웃 **전량**, greedy, 전 모델 **동일 문항**
 
-| (%) | **init** | 400 | 500 | 600 | 700 | **850** | 1000 |
-|---|---:|---:|---:|---:|---:|---:|---:|
-| **전체** (n=1,772) | **43.34** | 49.04 | 49.55 | 49.32 | 50.40 | **51.52** | **25.56** |
-| deepvision 일반 (n=972) | 35.60 | 42.59 | 43.11 | 42.08 | 44.44 | **46.40** | 22.84 |
-| mmk12 수학 (n=400) | 48.25 | 56.25 | 58.25 | 59.25 | 56.75 | 57.50 | **49.75** |
-| **pmcvqa 의료** (n=400) | 57.25 | 57.50 | 56.50 | 57.00 | 58.50 | 58.00 | **8.00** |
-| format | 0.947 | 0.892 | 0.887 | 0.887 | 0.903 | 0.895 | **0.180** |
-| 평균 길이 | 1,812 | 2,124 | 2,103 | 2,126 | 2,031 | 2,107 | **7,893** |
+| (%) | **init** | 400 | 500 | 600 | 700 | **850** | **900** | 1000 |
+|---|---:|---:|---:|---:|---:|---:|---:|---:|
+| **전체** (n=1,772) | **43.34** | 49.04 | 49.55 | 49.32 | 50.40 | **51.52** | **22.63** | 25.56 |
+| deepvision 일반 (n=972) | 35.60 | 42.59 | 43.11 | 42.08 | 44.44 | **46.40** | 16.36 | 22.84 |
+| mmk12 수학 (n=400) | 48.25 | 56.25 | 58.25 | 59.25 | 56.75 | 57.50 | **50.00** | 49.75 |
+| **pmcvqa 의료** (n=400) | 57.25 | 57.50 | 56.50 | 57.00 | 58.50 | 58.00 | **10.50** | 8.00 |
+| format | 0.947 | 0.892 | 0.887 | 0.887 | 0.903 | 0.895 | **0.056** | 0.180 |
+| 평균 길이 | 1,812 | 2,124 | 2,103 | 2,126 | 2,031 | 2,107 | **2,264** | **7,893** |
 
 **짝지음(McNemar) 판정** — 같은 문항을 두 모델이 푼 것이므로 짝지음이 맞다. 하한 ±9.8pp → **±1.8~2.3pp**
 
@@ -134,6 +134,7 @@
 | **init → 850** | **+8.18pp** p<0.0001 ✅ | +10.80 ✅ | +9.25 ✅ | +0.75 ✗ |
 | 400 → 700 (300 step) | +1.35pp p=0.18 ✗ | +1.85 ✗ | +0.50 ✗ | +1.00 ✗ |
 | **400 → 850 (450 step)** | **+2.48pp p=0.020 ✅** | +3.81 p=0.020 ✅ | +1.25 ✗ | +0.50 ✗ |
+| **850 → 900 (50 step)** | **−28.89pp** p<0.0001 🚨 | −30.04 | −7.50 | **−47.50** |
 | 400 → 1000 | **−23.48pp** p<0.0001 🚨 | −19.75 | −6.50 | **−49.50** |
 
 ![Stage-2 홀드아웃 전량 평가](docs/assets/stage2_holdout_paired.png)

diff --git a/docs/stage2_run73924_progress.md b/docs/stage2_run73924_progress.md
@@ -637,19 +637,27 @@ if self.beta != 0.0 and not self.kl_in_reward:      # ← 위에서 마스킹된
 
 ### 8-f. 홀드아웃에서의 손상
 
-| (%) | init | 400 | 500 | 600 | 700 | **850** | 1000 |
-|---|---:|---:|---:|---:|---:|---:|---:|
-| **전체** | 43.34 | 49.04 | 49.55 | 49.32 | 50.40 | **51.52** | **25.56** |
-| deepvision | 35.60 | 42.59 | 43.11 | 42.08 | 44.44 | **46.40** | 22.84 |
-| mmk12 수학 | 48.25 | 56.25 | 58.25 | 59.25 | 56.75 | 57.50 | **49.75** |
-| pmcvqa 의료 | 57.25 | 57.50 | 56.50 | 57.00 | 58.50 | 58.00 | **8.00** |
-| format | 0.947 | 0.892 | 0.887 | 0.887 | 0.903 | 0.895 | **0.180** |
-| mean_chars | 1,812 | 2,124 | 2,103 | 2,126 | 2,031 | 2,107 | **7,893** |
+| (%) | init | 400 | 500 | 600 | 700 | **850** | **900** | 1000 |
+|---|---:|---:|---:|---:|---:|---:|---:|---:|
+| **전체** | 43.34 | 49.04 | 49.55 | 49.32 | 50.40 | **51.52** | **22.63** | 25.56 |
+| deepvision | 35.60 | 42.59 | 43.11 | 42.08 | 44.44 | **46.40** | 16.36 | 22.84 |
+| mmk12 수학 | 48.25 | 56.25 | 58.25 | 59.25 | 56.75 | 57.50 | **50.00** | 49.75 |
+| pmcvqa 의료 | 57.25 | 57.50 | 56.50 | 57.00 | 58.50 | 58.00 | **10.50** | 8.00 |
+| format | 0.947 | 0.892 | 0.887 | 0.887 | 0.903 | 0.895 | **0.056** | 0.180 |
+| mean_chars | 1,812 | 2,124 | 2,103 | 2,126 | 2,031 | 2,107 | **2,264** | **7,893** |
 
-**손상이 소스별로 극단적으로 다르다.** 의료 −50.5pp / deepvision −21.6pp / 수학 −7.0pp.
-채점 방식 때문이다 — 의료는 `<answer>A</answer>` 가 있어야 letter 를 뽑으므로
-**letter 층이 0.5835 → 0.0798** 이 된다. 수학은 본문 어디서든 숫자를 잡아내 형식 붕괴에 덜 민감하다.
-즉 step 1000 의 −23pp 는 능력 상실보다 **형식 상실**에 가깝다. 실사용에서는 구분이 무의미하다.
+**절벽은 850 → 900 사이 50 step 이다** — 짝지음 **−28.89pp**(정답→오답 581 / 반대 69, p<0.0001).
+step 900 이 step 1000(25.56%)보다도 **낮다**. 이후 부분 회복이 있었으나 돌아오지 못했다.
+
+**학습 로그의 2단계 구조가 홀드아웃에서도 독립적으로 확인된다.** step 900 은 `format` 0.056 인데
+`mean_chars` 는 **2,264 로 정상**이다 — 순수한 형식 붕괴이고 길이 폭발은 아직 없다.
+step 1000 에 가서야 `mean_chars` 7,893 으로 뛴다(토큰 퇴화). §8-b 와 정확히 일치한다.
+
+**손상이 소스별로 극단적으로 다르다.** step 900 기준 의료 −47.0pp / deepvision −26.2pp / 수학 −6.3pp.
+채점 방식 때문이다 — 의료는 `<answer>A</answer>` 가 있어야 letter 를 뽑으므로 **letter 층이 0.5835 → 0.1047**,
+vl 층은 **0.0096** 까지 간다. 수학은 본문 어디서든 숫자를 잡아내 형식 붕괴에 덜 민감하고,
+실제로 **step 900 의 수학은 init 과 구분되지 않는다**(0.500 vs 0.4825, p=0.51).
+즉 이 −26pp 는 능력 상실보다 **형식 상실**에 가깝다. 실사용에서는 구분이 무의미하다.
 
 ### 8-g. 그래서 step 850 이 최고점이다 — 그리고 §6-d 의 "미검출"이 뒤집힌다
 
@@ -658,6 +666,8 @@ if self.beta != 0.0 and not self.kl_in_reward:      # ← 위에서 마스킹된
 | init → 850 | **+8.18pp** ±2.29 p<0.0001 ✅ | +10.80 ✅ | +9.25 ✅ | +0.75 ✗ |
 | **400 → 850** | **+2.48pp ±2.05 p=0.020 ✅** | +3.81 p=0.020 ✅ | +1.25 ✗ | +0.50 ✗ |
 | 700 → 850 | +1.13pp ±1.84 p=0.25 ✗ | +1.95 ✗ | +0.75 ✗ | −0.50 ✗ |
+| **850 → 900 (50 step)** | **−28.89pp** ±2.82 p<0.0001 🚨 | −30.04 | −7.50 | **−47.50** |
+| init → 900 | **−20.71pp** ±2.73 p<0.0001 🚨 | −19.24 | **+1.75 ✗** | −46.75 |
 | 400 → 1000 | **−23.48pp** ±2.74 p<0.0001 🚨 | −19.75 | −6.50 | −49.50 |
 
 **§6-d 의 "step 400 이후 미검출"은 정체가 아니라 분해능 부족이었다.** 간격이 300 step
@@ -681,9 +691,21 @@ work/checkpoints/_mideval_snap_step{400,500,600,800,850,900,950,1000}
 work/checkpoints/grpo_expanded_gdpo/v0-20260731-094532/checkpoint-700   (v0 동결)
 ```
 
-**재시작 후보는 step 850**(홀드아웃 최고 51.52%, 퇴화율 0.0%, 붕괴 직전)이다.
-다만 붕괴 직전 상태에서 재개하면 같은 궤도를 탈 위험이 있으므로, 파라미터를 고치지 않은 채
-850 에서 재개하는 것은 권하지 않는다.
+**step 850 이 홀드아웃 최고점(51.52%)이지만, 절벽에서 50 step 거리다.**
+850 → 900 이 −28.89pp 이므로 checkpoint-850 은 "안전한 최고점"이 아니라 **벼랑 끝**이다.
+파라미터를 고치지 않은 채 850 에서 재개하면 같은 궤도를 탈 가능성이 높다.
+
+재시작 지점 후보와 득실:
+
+| 지점 | 홀드아웃 | 절벽까지 | 비고 |
+|---|---:|---:|---|
+| init (`sft_mixed_merged`) | 43.34 | — | 파라미터 A/B 가 깨끗하다. 850 step(≈70 노드시간)을 버린다 |
+| step 400 | 49.04 | 500 step | init 대비 이득의 70% 를 이미 담고 있다 |
+| step 700 (v0, 동결) | 50.40 | 200 step | 850 대비 −1.13pp(미검출) — 사실상 동률인데 여유가 4배 |
+| **step 850** | **51.52** | **50 step** | 최고점이나 벼랑 끝. 파라미터 수정 없이는 권하지 않는다 |
+
+**step 700 이 절충안이다** — 850 과 통계적으로 구분되지 않으면서(p=0.25) 절벽까지 200 step 여유가 있다.
+다만 어느 지점이든 **붕괴를 막는 변경이 선행되지 않으면 의미가 없다**(§8-d).
 
 ---
 
